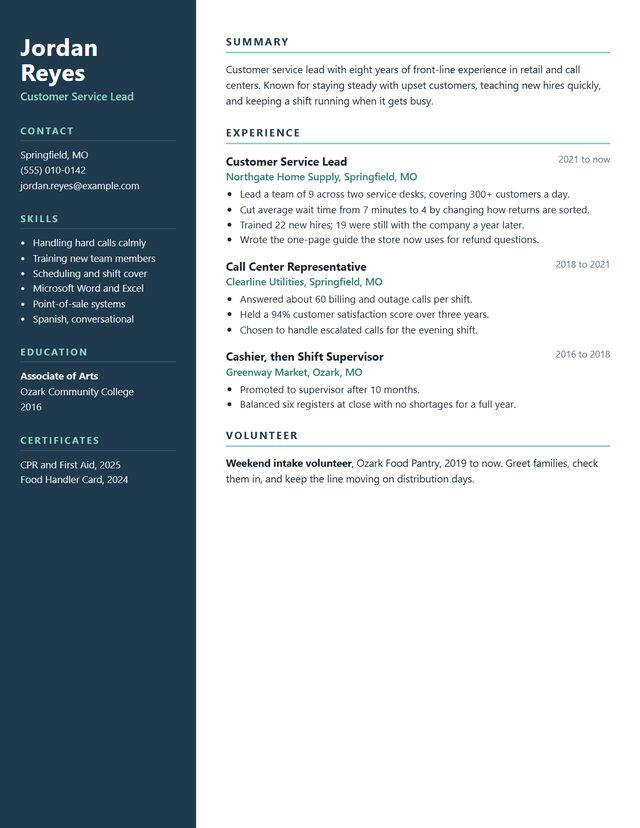
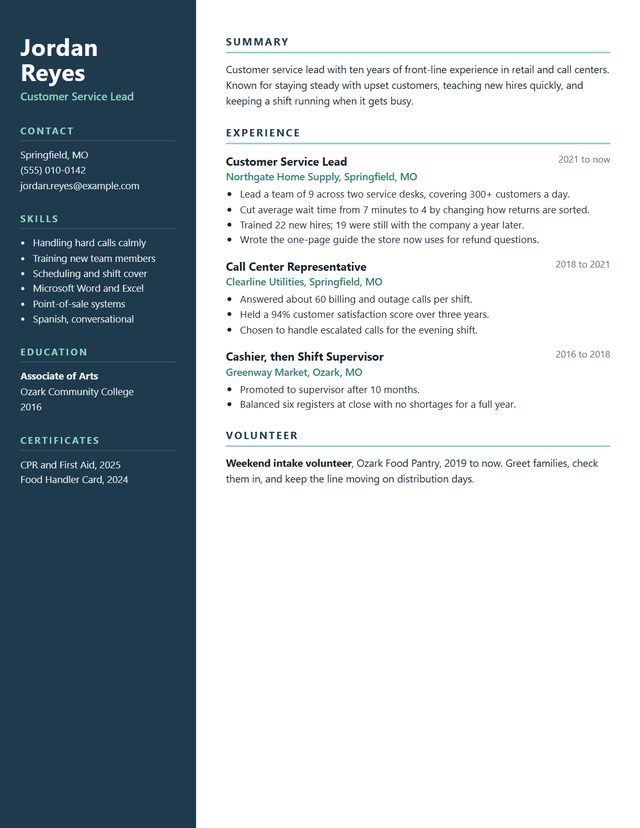
Work with GhostHeart: fixes from the independent check
Tracker sample is one page again and the resume sample says ten years (2016 to
now); example pictures keep their own shape; the video picture has no black
bars; opened prices are plain text; the form lands below the bar, sits flush
in its card and looks closed while it is closed; below 1001px the tabs start
beside the logo and the sliding row shows no scrollbar, as on Home.

Changed region(s): [[0.3438, 0.0604, 0.9375, 0.151]]

diff --git a/assets/new-look/pages.css b/assets/new-look/pages.css
@@ -35,9 +35,10 @@ html body.newlook header.top nav.menu a:focus-visible{outline:2px solid var(--nh
   html body.newlook header.top nav.menu a.support{margin-left:8px;padding:10px 12px!important}
 }
 @media (max-width:1000px){
-  html body.newlook header.top .wrap{flex-wrap:nowrap;padding-block:8px;gap:10px;min-height:0;width:100%;padding-inline:14px 0}
+  html body.newlook header.top .wrap{flex-wrap:nowrap;justify-content:flex-start;padding-block:8px;gap:10px;min-height:0;width:100%;padding-inline:14px 0}
   html body.newlook header.top .logo img{height:38px}
-  html body.newlook header.top nav.menu{flex-wrap:nowrap;justify-content:flex-start;gap:0;overflow-x:auto;padding:3px 14px 3px 6px}
+  html body.newlook header.top nav.menu{flex-wrap:nowrap;justify-content:flex-start;gap:0;overflow-x:auto;scrollbar-width:none;padding:3px 14px 3px 6px}
+  html body.newlook header.top nav.menu::-webkit-scrollbar{display:none}
   html body.newlook header.top nav.menu a{font-size:15px!important;padding:9px 9px!important;white-space:nowrap}
   html body.newlook header.top nav.menu a.support{order:-1;margin:0 10px 0 0;padding:9px 12px!important}
 }
@@ -71,7 +72,9 @@ html body.newlook .nw-card{background:var(--nh-panel);border:1px solid var(--nh-
 html body.newlook .nw-card h2{font-size:clamp(24px,2.8vw,32px);margin-bottom:12px}
 
 /* forms: the same fields and scripts as before, in the new look */
-html body.newlook main .f{display:grid;gap:12px}
+html body.newlook main .f{display:grid;gap:12px;padding:0;scroll-margin-top:150px}
+html body.newlook main .f fieldset:disabled{opacity:.6}
+html body.newlook main .f fieldset:disabled :is(input,textarea,select,button){cursor:not-allowed}
 html body.newlook main .f fieldset{border:0;margin:0;padding:0;min-width:0;display:grid;gap:12px}
 html body.newlook main .f label{font:400 15px/1.4 var(--nh-body);letter-spacing:0;text-transform:none;color:var(--nh-silver);display:grid;gap:6px}
 html body.newlook main .f :is(input,textarea,select){font:400 16px var(--nh-body);background:#000;color:var(--nh-white);border:2px solid var(--nh-silver);padding:11px 12px;min-height:0;width:100%;border-radius:0}
@@ -87,7 +90,7 @@ html body.newlook main .song-opt details.more summary{color:var(--nh-hot)}
 html body.newlook main table{width:100%;border-collapse:collapse;font:400 15px/1.4 var(--nh-body)}
 html body.newlook main :is(th,td){text-align:left;padding:8px 6px;border-bottom:1px solid var(--nh-line);color:#d6d6d4}
 html body.newlook main th{font:400 14px/1 var(--nh-title);letter-spacing:.06em;text-transform:uppercase;color:var(--nh-silver)}
-html body.newlook main td.p{white-space:nowrap;text-align:right;color:var(--nh-white);font-weight:700;background:none;-webkit-text-fill-color:currentColor}
+html body.newlook main td.p:not(#_){white-space:nowrap;text-align:right;color:var(--nh-white);font:700 15px/1.4 var(--nh-body);background:none;-webkit-text-fill-color:currentColor;filter:none;text-shadow:none}
 
 /* ---------- Work with GhostHeart ---------- */
 html body.newlook .nw-ask{display:grid;grid-template-columns:minmax(0,1fr) minmax(0,1fr);gap:40px;align-items:end;padding:34px 0 24px}
@@ -104,8 +107,8 @@ html body.newlook .nw-shown .nw-say{margin-top:8px}
 html body.newlook .nw-shown ul{list-style:none;margin:16px 0 0;padding:0;display:grid;grid-template-columns:repeat(4,minmax(0,1fr));gap:14px}
 html body.newlook .nw-shown a{display:grid;gap:6px;text-decoration:none;color:var(--nh-white);background:var(--nh-panel);border:1px solid var(--nh-line);padding:10px 10px 14px;height:100%;align-content:start}
 html body.newlook .nw-shown a:hover{border-color:var(--nh-silver)}
-html body.newlook .nw-shown .pic{display:block;aspect-ratio:5/6;overflow:hidden;background:#fff;border:1px solid var(--nh-line)}
-html body.newlook .nw-shown .pic img{display:block;width:100%;height:100%;object-fit:cover;object-position:top}
+html body.newlook .nw-shown .pic{display:block;background:#fff;border:1px solid var(--nh-line)}
+html body.newlook .nw-shown .pic img{display:block;width:100%;height:auto}
 html body.newlook .nw-shown b{font:400 20px/1.1 var(--nh-title);letter-spacing:.02em;text-transform:uppercase;margin-top:6px}
 html body.newlook .nw-shown small{font:400 14.5px/1.45 var(--nh-body);color:var(--nh-silver)}
 html body.newlook .nw-job{padding:24px 0 0}
@@ -115,7 +118,7 @@ html body.newlook .nw-sub{color:var(--nh-silver);margin-top:8px}
 html body.newlook .nw-grid{display:grid;grid-template-columns:minmax(0,.8fr) minmax(0,1.2fr);gap:34px;margin-top:20px;align-items:start}
 html body.newlook .nw-watch{display:block;text-decoration:none;color:var(--nh-white);background:var(--nh-panel);border:1px solid var(--nh-line);max-width:420px}
 html body.newlook .nw-watch:hover{border-color:var(--nh-silver)}
-html body.newlook .nw-watch img{display:block;width:100%;height:auto;aspect-ratio:16/9;object-fit:cover;background:#000;margin-inline:auto}
+html body.newlook .nw-watch img{display:block;width:100%;height:auto;background:#000;margin-inline:auto}
 html body.newlook .nw-watch span{display:block;padding:10px 12px;font:400 16px/1.2 var(--nh-title);letter-spacing:.04em;text-transform:uppercase}
 html body.newlook .nw-job blockquote{margin:16px 0 0;border-left:5px solid var(--nh-red);padding:2px 0 2px 14px;font:400 21px/1.3 var(--nh-spray);color:var(--nh-white)}
 html body.newlook .nw-job h3{font-size:22px;margin:0 0 10px}

diff --git a/here-to-help/index.html b/here-to-help/index.html
@@ -66,7 +66,7 @@
       <li><a href="/assets/work-samples/resume.pdf" target="_blank" rel="noopener"><span class="pic"><img src="/assets/work-samples/resume.jpg" alt="Example resume for a made-up customer service lead" width="640" height="828" loading="lazy"></span><b>A resume</b><small>One clean page, with the strongest facts up top.</small></a></li>
       <li><a href="/assets/work-samples/flyer.pdf" target="_blank" rel="noopener"><span class="pic"><img src="/assets/work-samples/flyer.jpg" alt="Example flyer for a made-up neighborhood coat drive" width="640" height="828" loading="lazy"></span><b>A flyer</b><small>What, when and where, readable from across a room.</small></a></li>
       <li><a href="/assets/work-samples/deck.pdf" target="_blank" rel="noopener"><span class="pic"><img src="/assets/work-samples/deck.jpg" alt="Example three-slide presentation for a made-up bakery" width="640" height="553" loading="lazy"></span><b>A presentation</b><small>A few clear slides, one idea on each.</small></a></li>
-      <li><a href="/assets/work-samples/tracker.pdf" target="_blank" rel="noopener"><span class="pic"><img src="/assets/work-samples/tracker.jpg" alt="Example monthly bills tracker for a made-up household" width="640" height="361" loading="lazy"></span><b>A tracker</b><small>A simple sheet that adds itself up.</small></a></li>
+      <li><a href="/assets/work-samples/tracker.pdf" target="_blank" rel="noopener"><span class="pic"><img src="/assets/work-samples/tracker.jpg" alt="Example monthly bills tracker for a made-up household" width="640" height="360" loading="lazy"></span><b>A tracker</b><small>A simple sheet that adds itself up.</small></a></li>
     </ul>
   </section>
 
@@ -79,7 +79,7 @@
     <div class="nw-grid">
       <div>
         <a class="nw-watch" href="https://www.youtube.com/watch?v=U0X6SwISG_M" target="_blank" rel="noopener">
-          <img src="https://i.ytimg.com/vi/U0X6SwISG_M/hqdefault.jpg" alt="To Those Who Served music video" width="480" height="360" loading="lazy">
+          <img src="https://i.ytimg.com/vi/U0X6SwISG_M/mqdefault.jpg" alt="To Those Who Served music video" width="320" height="180" loading="lazy">
           <span>▶ To Those Who Served, full song on YouTube</span>
         </a>
         <blockquote>We don’t need every story told<br>To know our thanks run deep.</blockquote>
